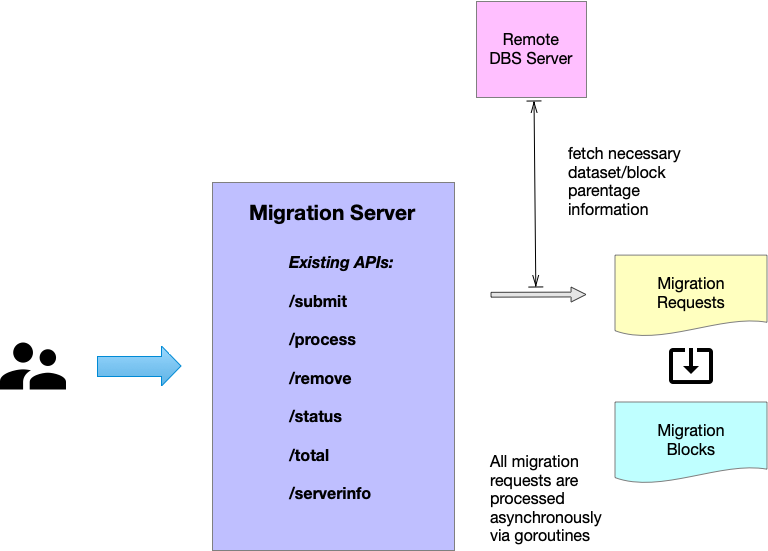
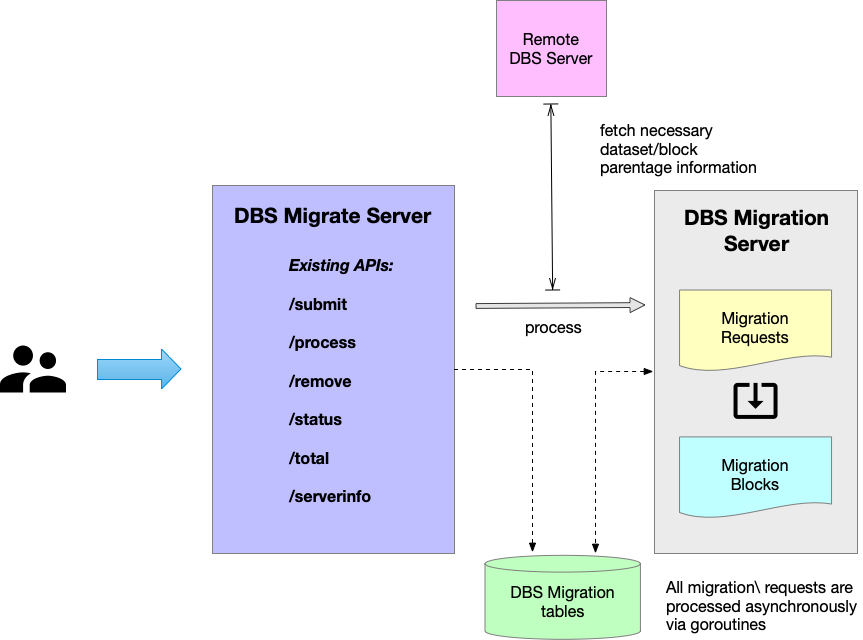
update migration docs

diff --git a/docs/MigrationServer.md b/docs/MigrationServer.md
@@ -1,6 +1,82 @@
 ### DBS Migration Server
 
-The architecture of DBS Migration server can be found in the
+The architecture of DBS Migrate and DBS Migration servers can be found in the
 following diagram:
 
 ![DBS Migration server](images/DBS_MigrationServer.png)
+
+The DBS migration servers has the following responsibility:
+- *DBS migrate* server is HTTP service which access end-user request
+to submit and check status of migration requests. It has the following set
+of APIs:
+  - `/submit` accepts migration (HTTP POST) request
+  - `/process` performs processing given migration request
+  - `/remove` removes migration request
+  - `/status` fetches status of given migraton request
+  - `/total` shows total number of migration requests in a system
+  - `/serverinfo` provides server information
+- *DBS migration* server runs as a daemon to process migraton requests
+from underlying DB backend on periodic basis
+
+### Examples
+Post migration request:
+```
+# migration document
+cat > m.json << EOF
+{
+    "migration_url": "https://.../dbs/prod/global/DBSReader",
+    "migraton_input": "/a/b/c#123"
+}
+EOF
+
+# submit migration request
+curl -H "Content-Type: application/json" -d@PWD/m.json \
+    http://localhost:9898/dbs2go-migrate/submit
+```
+
+Process migration request
+```
+# migration document
+cat > m.json << EOF
+{
+    "migration_rqst_id":65023
+}
+EOF
+
+# submit migration request
+curl -H "Content-Type: application/json" -d@PWD/m.json \
+    http://localhost:9898/dbs2go-migrate/process
+```
+
+Fetch status of migration request
+```
+curl http://localhost:9898/dbs2go-migrate/status
+
+[
+{"create_by":"giffels","creation_date":1391014486,"last_modification_date":1391014924,"last_modified_by":"giffels","migration_input":"/GluGluToHToWWTo2LAndTau2Nu_M-90_7TeV-powheg-pythia6/Fall11-PU_S6_START42_V14B-v1/AODSIM","migration_request_id":5002,"migration_status":3,"migration_url":"https://cmsweb.cern.ch/dbs/prod/global/DBSReader","retry_count":3}
+,{"create_by":"giffels","creation_date":1391014486,"last_modification_date":1391014949,"last_modified_by":"giffels","migration_input":"/ZZTo2e2mu_8TeV_mll8_mZZ95-160-powheg15-pythia6/Summer12_DR53X-PU_S10_START53_V19-v1/AODSIM","migration_request_id":10001,"migration_status":3,"migration_url":"https://cmsweb.cern.ch/dbs/prod/global/DBSReader","retry_count":3}
+,{"create_by":"giffels","creation_date":1391014499,"last_modification_date":1391014965,"last_modified_by":"giffels","migration_input":"/CIToMuMu_Con_Lambda-19_M-800_TuneZ2star_8TeV-pythia6/Summer12_DR53X-PU_S10_START53_V19E-v1/AODSIM","migration_request_id":5004,"migration_status":3,"migration_url":"https://cmsweb.cern.ch/dbs/prod/global/DBSReader","retry_count":3}
+...
+
+# or you can fetch status info of single request
+curl http://localhost:9898/dbs2go-migrate/status?migration_request_id=10005
+[
+{"create_by":"giffels","creation_date":1391014552,"last_modification_date":1391015023,"last_modified_by":"giffels","migration_input":"/ZJetToEE_Pt-170to230_TuneEE3C_8TeV_herwigpp/Summer12_DR53X-PU_S10_START53_V19-v1/AODSIM","migration_request_id":10005,"migration_status":3,"migration_url":"https://cmsweb.cern.ch/dbs/prod/global/DBSReader","retry_count":3}
+]
+```
+
+Get total number of migraton requests in a system:
+```
+curl http://localhost:9898/dbs2go-migrate/total
+[
+{"count":2319}
+]
+```
+Remove migraton request from a system:
+```
+curl -v -H "Content-type: application/json" \
+    -d@$PWD/mig_request.json \
+    http://localhost:9898/dbs2go-migrate/remove
+
+[{"api":"remove","error":"Invalid request. Successfully processed or processing requests cannot be removed, or the requested migration did not exist, or the requestor for removing and creating has to be the same user.","exception":400,"method":"POST","type":"HTTPError"}]
+```
